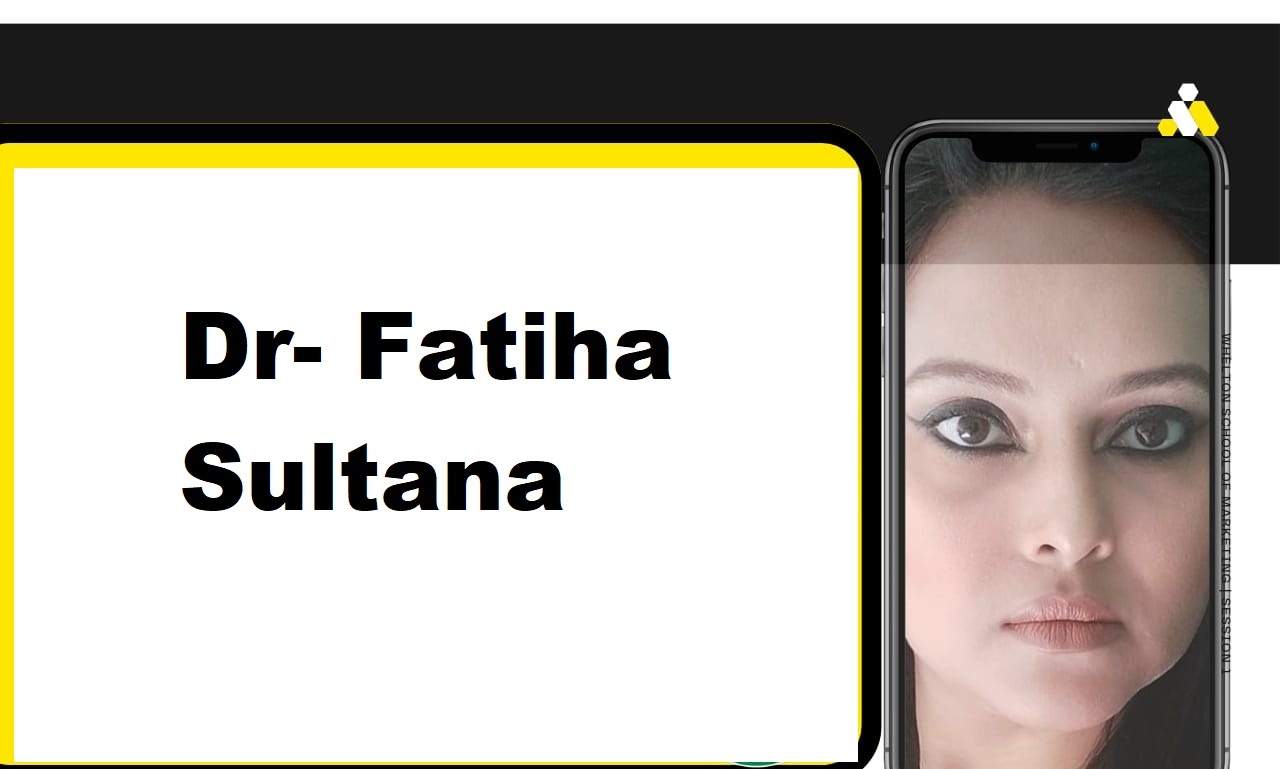
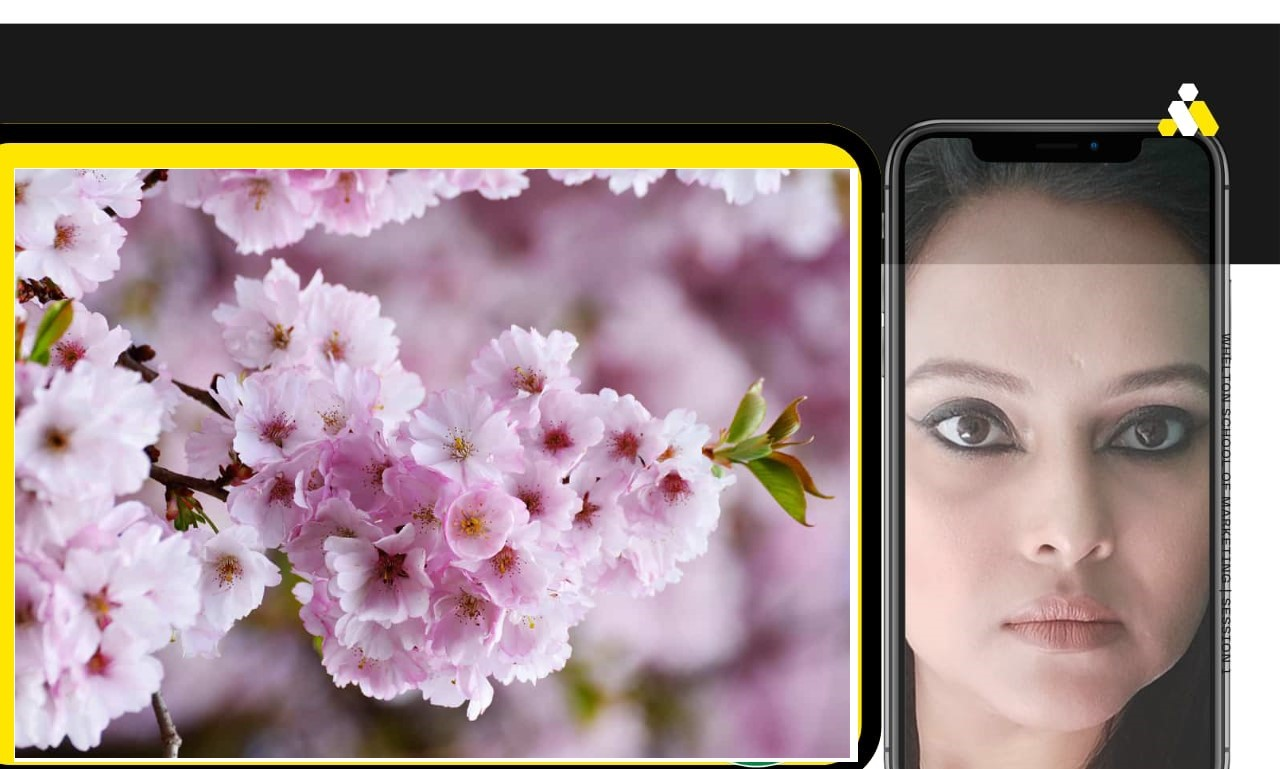
edited

diff --git a/index.html b/index.html
@@ -17,56 +17,50 @@
         <img class="logo-image-style" src="logo.jpg" alt="">
       </div>
       <div class="header-title">
-        Fatiha's School
+        Fatiha Sultana
       </div>
     </div>
 
-    <div style="height: 200px; border: 2px;"><img src="fashion-img.jpg" alt=""> </div>
-
     <section>
-      <div>
-        <h1>
-          Learning is Fun
-        </h1>
+      <div class="container">
+        <div class="left-side">
+          <h1>
+            Learning is Fun
+          </h1>
 
-        <p>Hello! I'm Fatiha </p>
-        <p>I want to make learning easy and funny for everyone. </p>
+          <p>Hello! I'm Fatiha </p>
+          <p>I want to make learning easy and funny for everyone. </p>
 
-        <button class="button-style" onclick="myWorld()">
-          Learn with Me
-        </button>
+          <div class="button-style">
+            <a href="https://www.youtube.com/@dr.fatihasultana">
+              Click to learn with me
+            </a>
+          </div>
 
+        </div>
+        <div class="right-side" style="height: 200px; border: 2px;">
+          <img src="fashion-img.png" alt="flower">
+          <p style="color: aqua;">Shine your moments, like a flower, make it worth living.</p>
+        </div>
       </div>
 
       <div>
         <h1>
-          Visit my <strong style="color: red;"> <a href="https://www.youtube.com/@dr.fatihasultana"> YouTube Channel
-            </a>
-          </strong> to start learning with me.
+          Visit <strong style="color: red;"> My Profile
+          </strong>
 
         </h1>
 
-        <div style="display: flex; justify-content: center; margin-left: 70px; padding-left: 2px;">
-          <img style=" width: 80%; border: 4px solid black; border-radius: 3px;" src="f-image.jpg" alt="">
+        <div style="display: flex; justify-content: center; margin-left: 70px;">
+          <img style=" width: 100%;" src="f-image.jpg" alt="Fatiha">
         </div>
       </div>
     </section>
-    <section
-      style="margin-top: 6px; padding-left: 2px; margin-left: 70px; margin margin-right: 20%; background-color: black; height: 80px; padding-top: 10px;">
+    <section style="margin-top: 6px; margin-left: 70px;  background-color: black; height: 80px; padding-top: 10px;">
       <footer>
         <p style="text-align: center; color: white; padding: 5px; ">@dr-fatiha-sultana-2023, dhaka,
           bangladesh.</p>
       </footer>
     </section>
   </main>
-  <script>
-    function myWorld() {
-      document.body.innerHTML = null;
-      document.body.style.backgroundColor = "blue";
-      const element = document.createElement('div');
-      element.innerText = "Please wait! Sory for the inconvinience! This website is now under construction. For now to stay connected please go, visit and subscribe my youtube channel learning videos. Thank you for your patience.";
-      document.body.appendChild(element);
-
-    }
-  </script>
 </body>

diff --git a/style.css b/style.css
@@ -1,62 +1,80 @@
-
-.header-style{
+.header-style {
   display: flex;
   flex-direction: row;
-  
+
   position: fixed;
   top: 0;
   left: 0;
   right: 0;
-  
+
   width: 100%;
   height: 55px;
-  
+
   padding: 2px;
   background-color: white;
-  
+
   align-items: center;
   box-sizing: border-box;
   margin: 0 auto;
   margin-left: 70px;
 }
 
-.logo-image-style{
+.logo-image-style {
   display: flex;
   border: none;
   border-radius: 40px;
   padding: 2px;
-  width: 50px;  
+  width: 50px;
   margin-left: 10px;
   align-items: center;
 }
 
-.header-title{
+.header-title {
   display: flex;
-  padding: 2px;  
+  padding: 2px;
   margin-left: 10px;
   align-items: center;
   font-family: Verdana, Geneva, Tahoma, sans-serif;
   font-size: larger;
 }
-h1{
-  margin-top: 200px; 
-  margin-left: 100px; 
+
+.container {
+  display: grid;
+  grid-template-columns: 1fr 1fr;
+  column-gap: 20px;
+  margin-top: 10px;
 }
-p{
-  margin-left: 100px; 
+
+h1 {
+  margin-top: 200px;
+  margin-left: 100px;
 }
-.button-style{
+
+p {
+  margin-left: 100px;
+}
+
+.button-style {
   margin-top: 20px;
   margin-left: 100px;
   background-color: rgb(72, 116, 29);
-  color: white;
-  font-size: medium;
   border: none;
   padding: 10px;
   border-radius: 6px;
+  width: 150px;
 }
 
-.button-style:hover{
+a {
+  text-decoration: none;
+  color: white;
+  font-size: 1em;
+}
+
+.button-style:hover {
   background-color: brown;
 }
 
+.right-side img {
+  width: 100%;
+  margin-top: 30px;
+}
